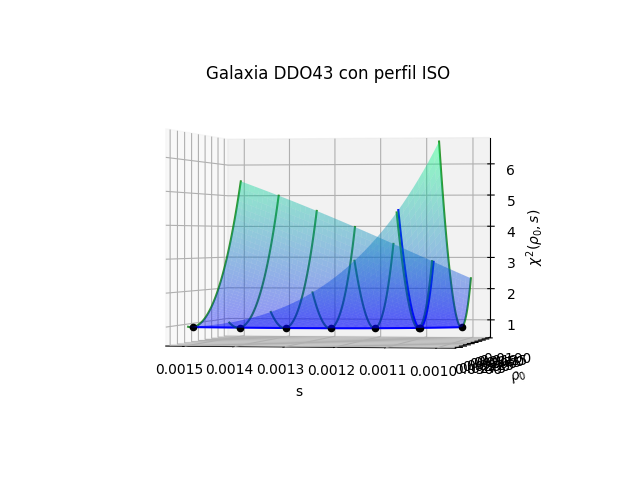
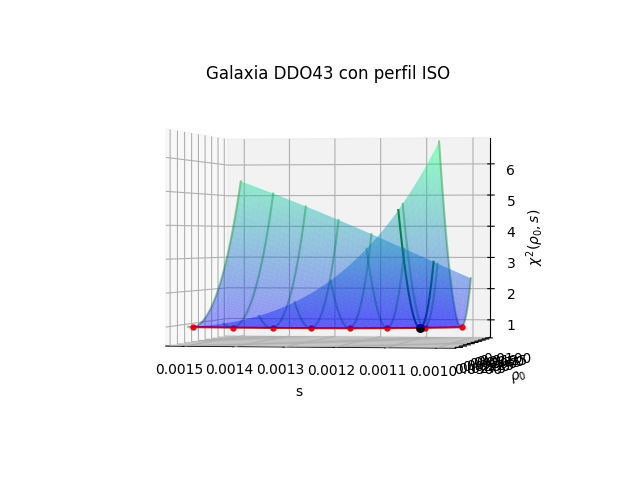
New 3D graphics for the report

Changed region(s): [[0.2812, 0.3438, 0.75, 0.6875]]

diff --git a/galaxygraphic3D.py b/galaxygraphic3D.py
@@ -6,9 +6,9 @@ def generate3Dgraphic(i, minvarphiX, minvarphi, minrho, galaxdata):
     fig = plt.figure()
     ax = fig.gca(projection='3d')
     ssurf = np.linspace(0.0015, 0.001, 50)
-    minorssurf = np.linspace(0.0015, 0.001, 7)
+    minorssurf = np.linspace(0.0015, 0.001, 8)
     rhosurf = np.linspace(0.01, 0.03, 50)
-    csurf = cf.chiquad(rhosurf, ssurf, galaxdata)
+    # csurf = cf.chiquad(rhosurf, ssurf, galaxdata) # Scatter data
     # surf = ax.scatter3D(ssurf, rhosurf, csurf)    # Scatter data
     Xsurf, Ysurf = np.meshgrid(ssurf, rhosurf)
     chisurf = np.zeros((len(Xsurf), len(Ysurf)))
@@ -16,16 +16,17 @@ def generate3Dgraphic(i, minvarphiX, minvarphi, minrho, galaxdata):
         for j in range(len(Ysurf)):
             chielem = cf.chiquad(np.array([Ysurf[k,j]]), np.array([Xsurf[k,j]]), galaxdata)
             chisurf[k][j] = chielem
-    surf = ax.plot_surface(Xsurf, Ysurf, chisurf, cmap="winter", alpha=0.4)
-    ax.plot(ssurf, cf.rho(ssurf, galaxdata), cf.chiquad(cf.rho(ssurf, galaxdata), ssurf, galaxdata), c='b')
-    ax.plot([minvarphiX] * 50, rhosurf, cf.chiquad(rhosurf, np.asarray([minvarphiX] * 50), galaxdata), c='b')
+    surf = ax.plot_surface(Xsurf, Ysurf, chisurf, cmap="winter", alpha=0.4)     # Superficie
+    # Función rho_0(s) para s in (0, infty) // varphi(s) es la proyección de esta rho_0(s) en el plano rho_0 = 0 #
+    ax.plot(ssurf, cf.rho(ssurf, galaxdata), cf.chiquad(cf.rho(ssurf, galaxdata), ssurf, galaxdata), c='r')
+    # Función chi^2(·, s)  para un s dado #
+    ax.plot([minvarphiX] * 50, rhosurf, cf.chiquad(rhosurf, np.asarray([minvarphiX] * 50), galaxdata), c='green')
+    ax.scatter3D(minvarphiX, minrho, minvarphi, c='black', linewidths=2)
     for x in minorssurf:
-        ax.plot([x] * 50, rhosurf, cf.chiquad(rhosurf, np.asarray([x] * 50), galaxdata), c='green', alpha=0.8)
+        ax.plot([x] * 50, rhosurf, cf.chiquad(rhosurf, np.asarray([x] * 50), galaxdata), c='green', alpha=0.4)
         convexmin = min(cf.chiquad(rhosurf, np.asarray([x] * 50), galaxdata))
-        ax.scatter3D(x, cf.rho(np.array([x]), galaxdata), convexmin, c='black')
-    ax.scatter3D(minvarphiX, minrho, minvarphi, c='black')
-    #ax.plot(minvarphiX, cf.rho(minvarphiX, galaxdata), cf.phi(ssurf, galaxdata), c='yellow')     # ERROR
-    ax.view_init(0, 100)
+        ax.scatter3D(x, cf.rho(np.array([x]), galaxdata), convexmin, c='red', linewidths=0.1)       # Funciones convexas
+    ax.view_init(0, 90)
     ax.yaxis.labelpad = 5
     ax.xaxis.labelpad = 10
     ax.set_xlabel('s')
@@ -33,4 +34,4 @@ def generate3Dgraphic(i, minvarphiX, minvarphi, minrho, galaxdata):
     ax.set_zlabel(r'$\chi^2(\rho_0,s)$')
     plt.title("Galaxia " + i + " con perfil " + galaxdata["profile"])
     plt.show()
-    #plt.savefig("galaxies/graphics/" + galaxdata["profile"] + '-' + i + '-3D_convexity0100.png')
+    #plt.savefig("galaxies/graphics/" + galaxdata["profile"] + '-' + i + '-3D_convexity0190.png')
